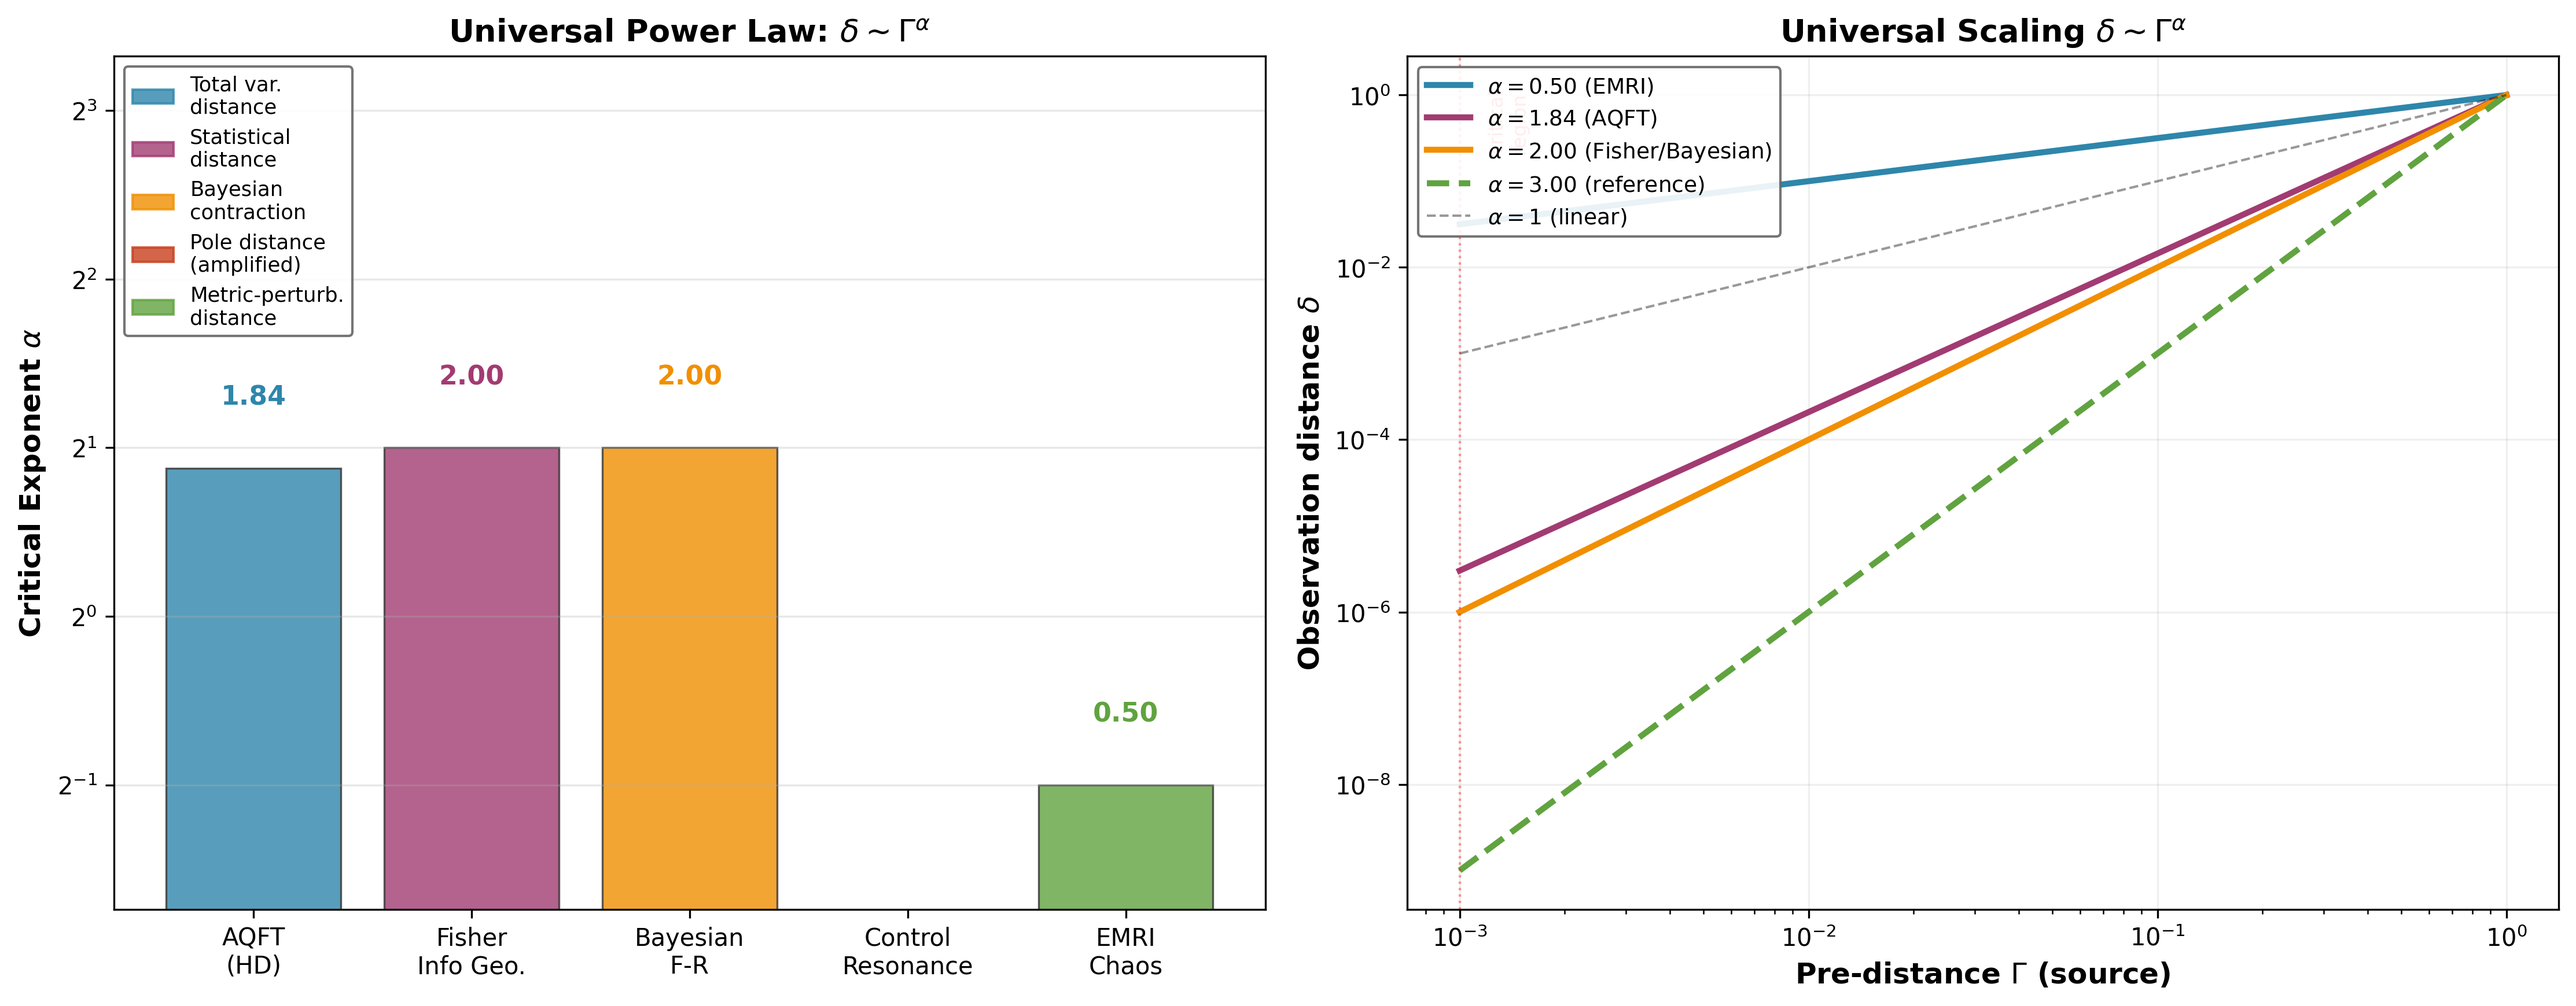
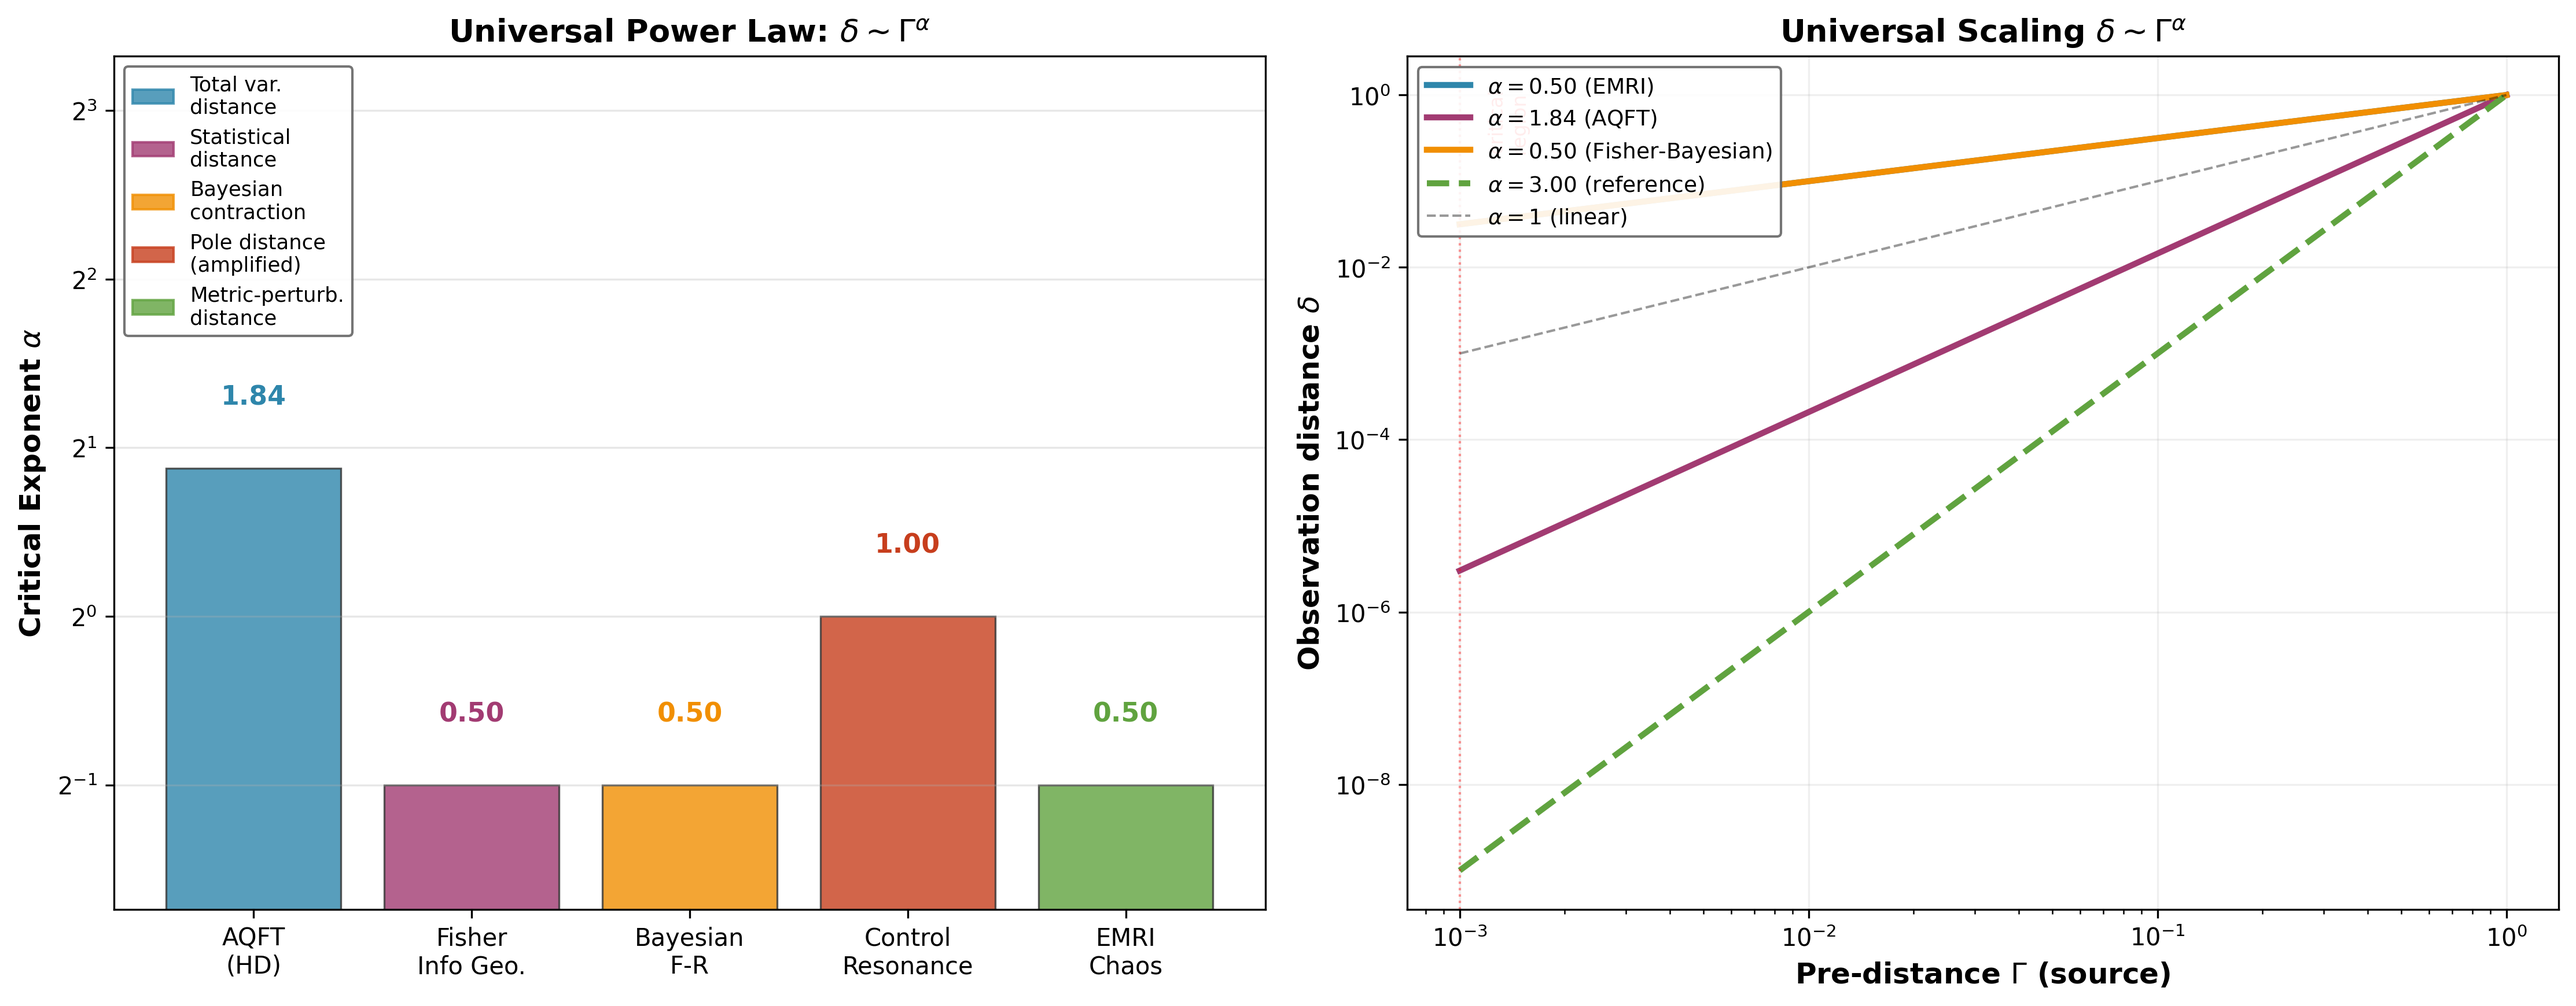
Iteration 89: DistCat section numbering + figure alpha fix
CRITICAL fixes from arXiv readiness review (sub-brain 89):
- Section numbering: converted subsection→section for top-level structure
  - \subsection{1. Introduction} → \section{Introduction}
  - \subsection{2. Mathematical Definition} → \section{Mathematical Definition}
  - Example 5: \section → \subsection (consistent with Ex 2-4)
  - Examples 2-4: \subsection → \section
  - Discussion: \subsection{9. Discussion} → \section{Discussion}
- Figure 2 alpha values: [1.84, 2.00, 2.00, inf, 0.50] → [1.84, 0.50, 0.50, 1, 0.50]
  (matches corrected text values from iterations 82-83)

diff --git a/projects/AI-计算科学/D1-academic-AI/papers/distcat-v5/main-v5.tex b/projects/AI-计算科学/D1-academic-AI/papers/distcat-v5/main-v5.tex
@@ -143,7 +143,7 @@ follows a universal power-law form \(\delta \sim \Gamma^\alpha\).
 
 \begin{center}\rule{0.5\linewidth}{0.5pt}\end{center}
 
-\subsection{1. Introduction}\label{introduction}
+\section{Introduction}\label{introduction}
 
 The concept of ``distance'' permeates mathematics and physics, yet its
 origin remains largely unexamined. In differential geometry, the
@@ -210,7 +210,7 @@ This suggests that the distance export principle is a
 
 \begin{center}\rule{0.5\linewidth}{0.5pt}\end{center}
 
-\subsection{2. Mathematical Definition}\label{mathematical-definition}
+\section{Mathematical Definition}\label{mathematical-definition}
 
 \subsubsection{2.1 Base Structures
 (0-Objects)}\label{base-structures-0-objects}
@@ -444,7 +444,7 @@ exist.
 \begin{center}\rule{0.5\linewidth}{0.5pt}\end{center}
 
 
-\section{Example 5: EMRI Chaos as D26 Resonance Amplification}\label{sec:example5-emri}
+\subsection{Example 5: EMRI Chaos as D26 Resonance Amplification}\label{sec:example5-emri}
 
 This section instantiates the DistCat framework for extreme mass-ratio inspirals (EMRIs) in dark matter (DM) halos, establishing that EMRI chaos is a gravitational realization of the D26 resonance amplification principle. We define the EMRI base structure $\mathcal{B}_{\rm EMRI} = (\mathbf{C}_{\rm EMRI}, \mathcal{F}_{\rm geo}, \mathcal{O}_{\rm obs})$, prove that the Lyapunov exponent $\lambda_T$ is the gravitational counterpart of the D26 amplification coefficient $G_{\rm Amp}$ (Proposition~\ref{prop:emri-chaos-resonance}), derive the KAM-breaking scaling law $\lambda_T \sim (\rho_s - \rho_c)^\alpha$ with $\alpha = 0.5$ (Proposition~\ref{prop:kam-scaling}), and show that the EMRI distance structure is categorically equivalent to D26's (Proposition~\ref{prop:emri-d26-dist-eq}). The MSS chaos bound $\lambda_T^2 < \kappa^2$ is interpreted as the D26 H-infinity robustness condition, yielding a provable stability boundary for EMRIs in DM halos.
 
@@ -678,7 +678,7 @@ The EMRI example, together with the four preceding examples in this paper, demon
 \begin{center}\rule{0.5\linewidth}{0.5pt}\end{center}
 
 
-\subsection{Example 2: KL Divergence and Fisher--Rao Geometry}\label{sec:example2-fisher-rao}
+\section{Example 2: KL Divergence and Fisher--Rao Geometry}\label{sec:example2-fisher-rao}
 
 This section sketches the instantiation of DistCat for statistical manifolds. Full development is in companion work.
 
@@ -698,7 +698,7 @@ The source pre-distance is the KL divergence $\Gamma = D_{\rm KL}(P \| Q)$. The 
 \begin{center}\rule{0.5\linewidth}{0.5pt}\end{center}
 
 
-\subsection{Example 3: Bayesian Inference and Fisher--Rao Distance}\label{sec:example3-bayesian}
+\section{Example 3: Bayesian Inference and Fisher--Rao Distance}\label{sec:example3-bayesian}
 
 This section establishes that Bayesian model averaging is a DistCat distance export. Full development is in companion work.
 
@@ -718,7 +718,7 @@ The source pre-distance is the $L^2$ distance between priors $\Gamma = \|\pi_0 -
 \begin{center}\rule{0.5\linewidth}{0.5pt}\end{center}
 
 
-\subsection{Example 4: D26 Resonance Amplification}\label{sec:example4-d26}
+\section{Example 4: D26 Resonance Amplification}\label{sec:example4-d26}
 
 This section instantiates DistCat for LTI control systems with resonance amplification. Full development is in companion work.
 
@@ -741,7 +741,7 @@ However, near the resonance (as damping $\zeta \to 0$), the peak gain diverges: 
 \begin{center}\rule{0.5\linewidth}{0.5pt}\end{center}
 
 
-\subsection{9. Discussion}\label{discussion}
+\section{Discussion}\label{discussion}
 
 \subsubsection{\texorpdfstring{9.1 Universal Nature of
 \(\delta = \Phi(\Gamma)\)}{9.1 Universal Nature of \textbackslash delta = \textbackslash Phi(\textbackslash Gamma)}}\label{universal-nature-of-delta-phigamma}

diff --git a/projects/AI-计算科学/D1-academic-AI/papers/distcat-v5/fig-exponents.py b/projects/AI-计算科学/D1-academic-AI/papers/distcat-v5/fig-exponents.py
@@ -10,7 +10,7 @@ fig, (ax1, ax2) = plt.subplots(1, 2, figsize=(15, 6))
 
 # Example data
 examples = ['AQFT\n(HD)', 'Fisher\nInfo Geo.', 'Bayesian\nF-R', 'Control\nResonance', 'EMRI\nChaos']
-alphas = [1.84, 2.00, 2.00, np.inf, 0.50]
+alphas = [1.84, 0.50, 0.50, 1, 0.50]
 colors = ['#2E86AB', '#A23B72', '#F18F01', '#C73E1D', '#60A33F']
 physical_interps = ['Total var.\ndistance', 'Statistical\ndistance', 'Bayesian\ncontraction', 'Pole distance\n(amplified)', 'Metric-perturb.\ndistance']
 
@@ -43,10 +43,10 @@ ax1.legend(legend_handles, physical_interps, fontsize=8.5, loc='upper left',
 Gamma_vals = np.logspace(-3, 0, 500)  # Gamma from 0.001 to 1
 
 # Plot different power laws
-alpha_vals = [0.50, 1.84, 2.00, 3.0]  # inf case handled separately
-alpha_labels = [r'$\alpha=0.50$ (EMRI)', r'$\alpha=1.84$ (AQFT)', r'$\alpha=2.00$ (Fisher/Bayesian)',
+alpha_vals = [0.50, 1.84, 0.50, 3.0]  # EMRI, AQFT, Fisher-Bayesian, reference
+alpha_labels = [r'$\alpha=0.50$ (EMRI)', r'$\alpha=1.84$ (AQFT)', r'$\alpha=0.50$ (Fisher-Bayesian)',
                 r'$\alpha=3.00$ (reference)']
-display_alphas = [(0.50, 0), (1.84, 1), (2.00, 2), (3.0, -1)]
+display_alphas = [(0.50, 0), (1.84, 1), (0.50, 2), (3.0, -1)]
 
 for a, idx in display_alphas:
     delta_vals = Gamma_vals ** a
